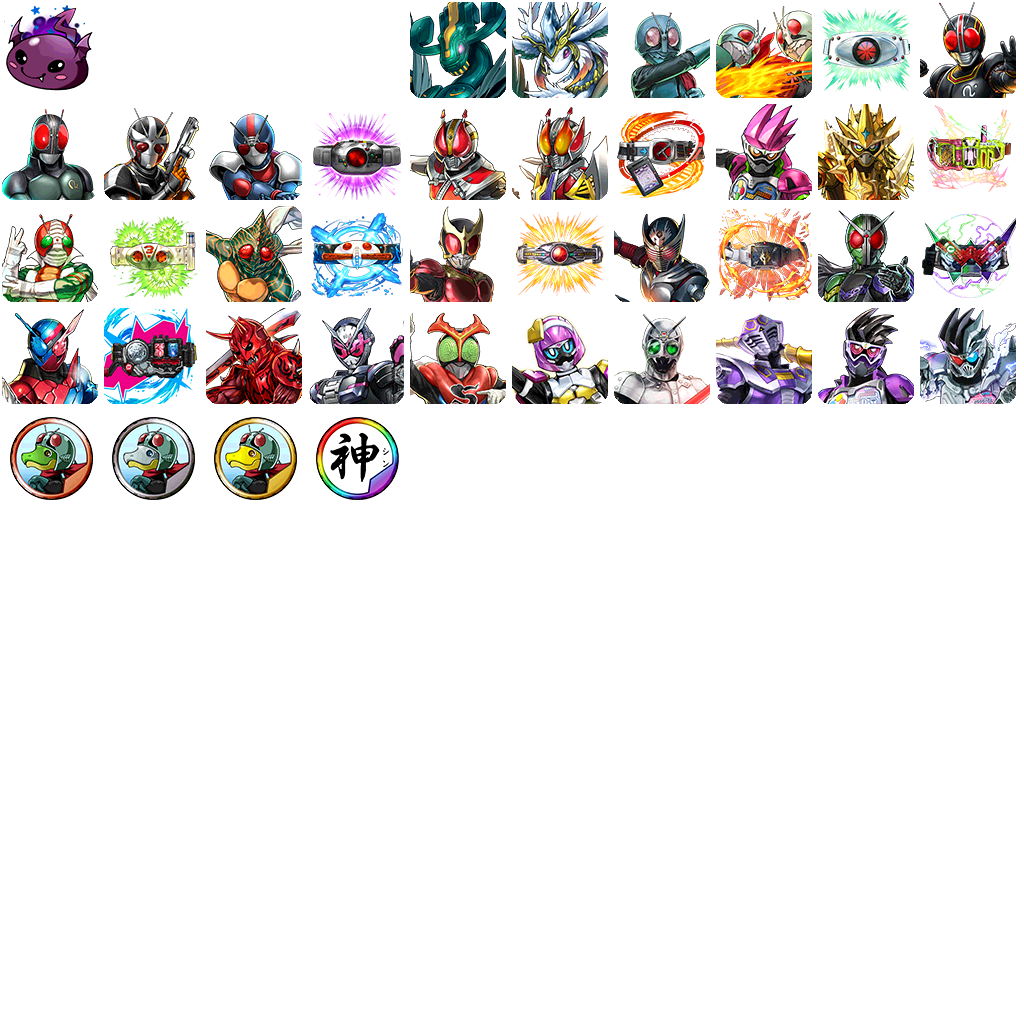
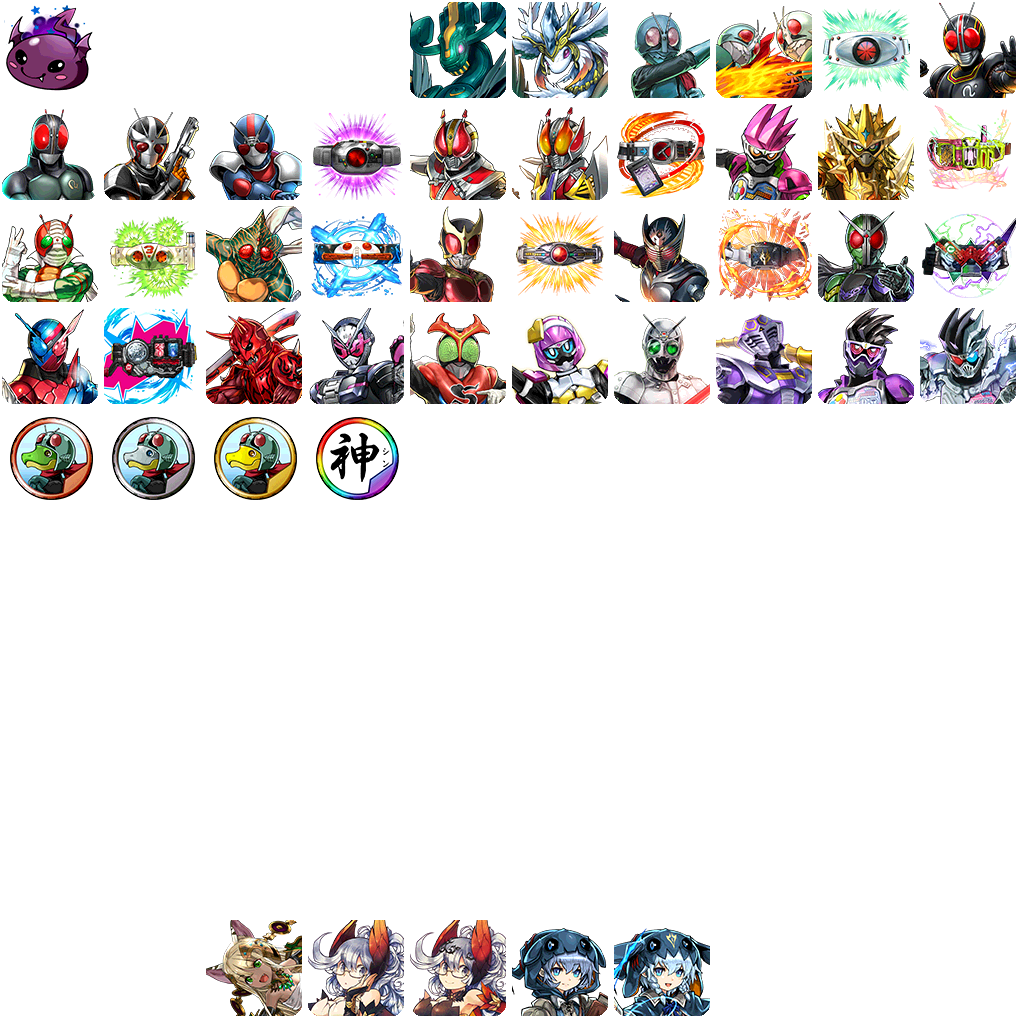
新增的还没有数据

Changed region(s): [[0.1875, 0.875, 0.6875, 1.0]]

diff --git a/生成二技宠物JSON.js b/生成二技宠物JSON.js
@@ -128,10 +128,6 @@ var monsterList = [
         3832, //美貌之贤鬼・茨木童子
         3881, //幽姿的狂鬼・桥姬
     ]},
-    {group: "特别版角色（限时）",ids: [
-        3977, //燃烧荷鲁斯
-        4226, //情人節巧克力【四神】
-    ]},
     {group: "宠物交换所",ids: [
         4897, //特洛伊的木馬
     ]},
@@ -147,7 +143,14 @@ var monsterList = [
         3340, //水柱的護衛神・姆特
         3342, //地柱的護衛神・孔斯
     ]},
-    {group: "MP商店-特别版角色（限时）",ids: [
+    {group: "特别版角色（限时）：降临",ids: [
+        3977, //燃烧荷鲁斯
+        4226, //情人節巧克力【四神】
+    ]},
+    {group: "特别版角色（限时）：宠物交换所",ids: [
+        5040, //闇夜之月龍喚士・皋月
+    ]},
+    {group: "特别版角色（限时）：MP商店",ids: [
         2318, //琥珀的美公主・女武神葛雷婭
         3112, //休息的狙擊手・時龍契士 美瑠
         2407, //古城的女主神・迦梨
@@ -280,6 +283,7 @@ var monsterList = [
         4297, //冥黑神・拉＝龍
         4576, //水都之守護神・雅典娜
         4636, //滅神機・諸神黃昏龍
+        4993, //陽風之愛猫神・芭丝特
     ]},
 ];
 

diff --git a/生成伤害吸收宠物JSON.js b/生成伤害吸收宠物JSON.js
@@ -7,6 +7,10 @@ var monsterList = [
         5032, //孤島之大魔女・莉邪
         5033, //冥華之大魔女・莉邪
     ]},
+    {group: "女子桶双破吸-水魔女",ids: [
+        4994, //大魔女之弟子・奥里亚
+        4995, //灼華之魔女・奥里亚
+    ]},
     {group: "伤害吸收-风神",ids: [
         3413, //風神
         3414, //翠角的天鬼姬・風神
